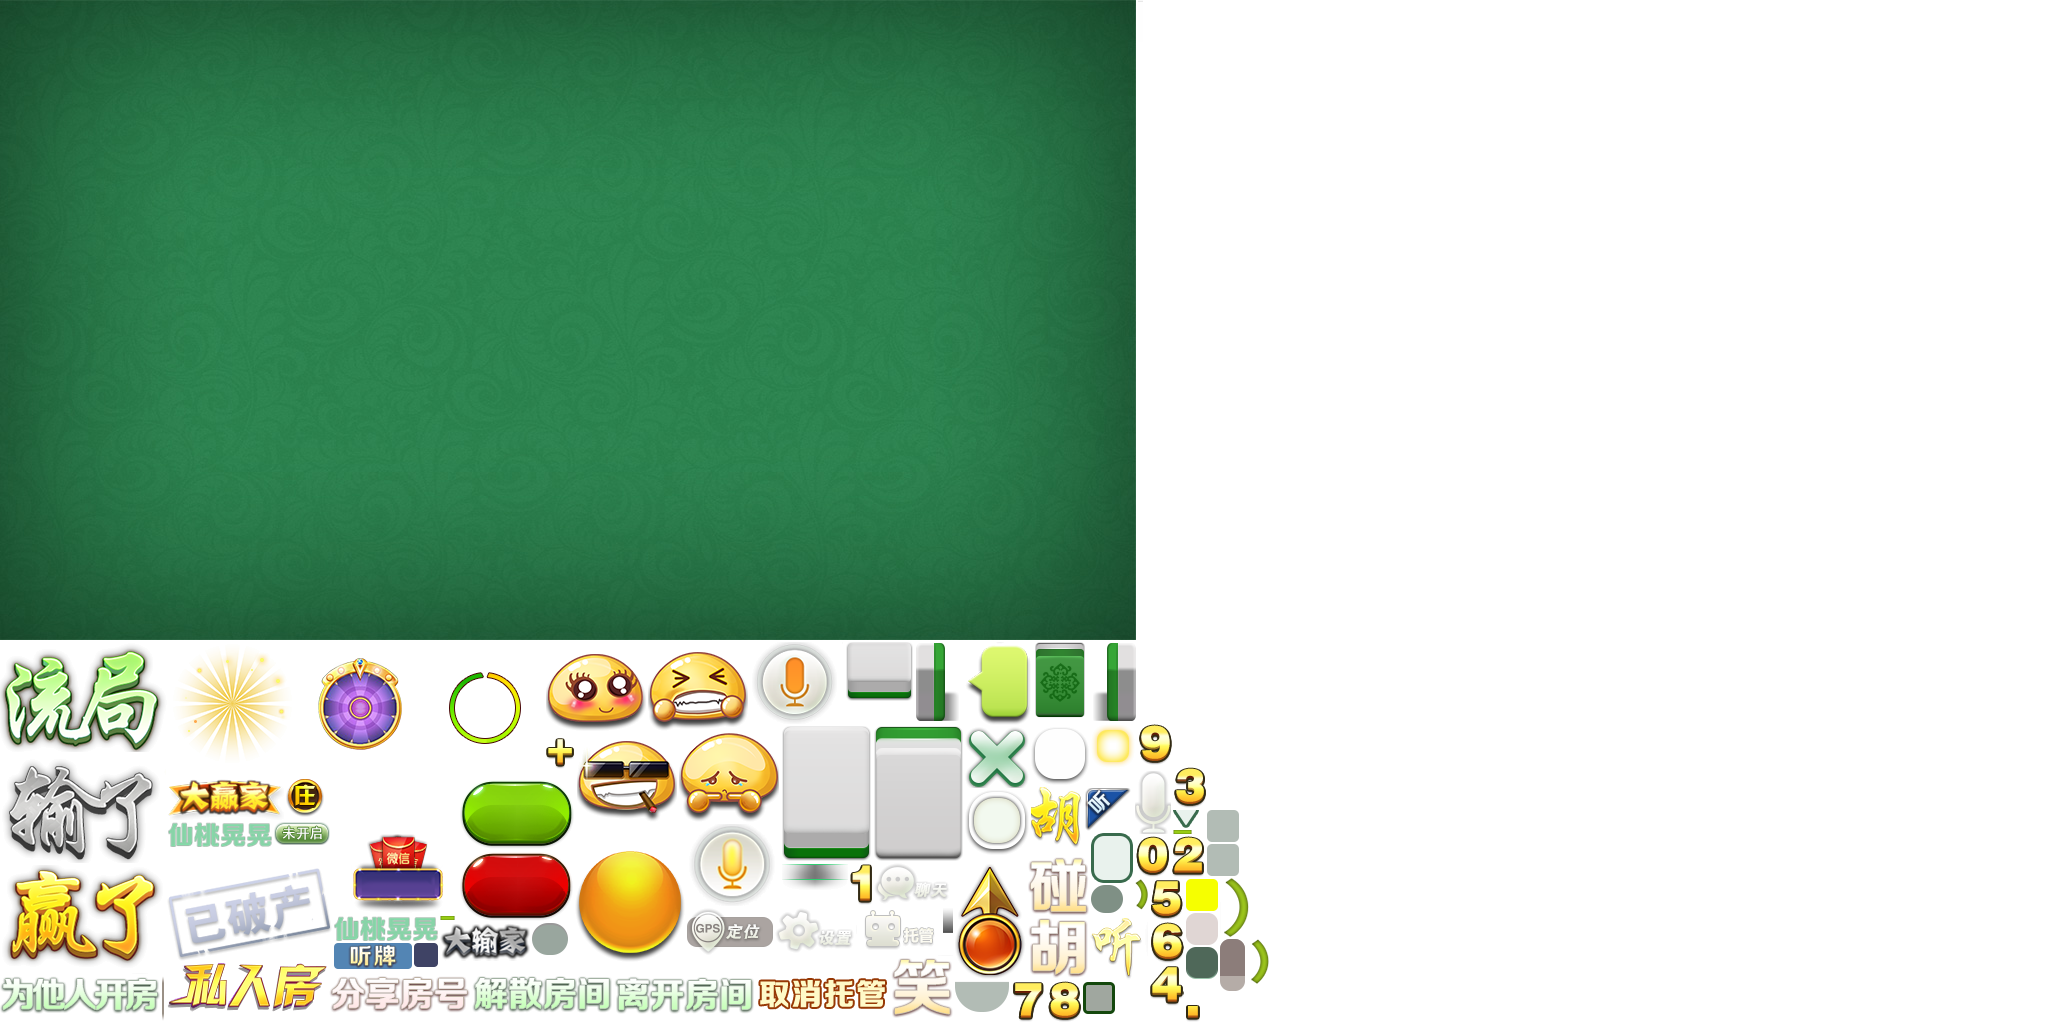
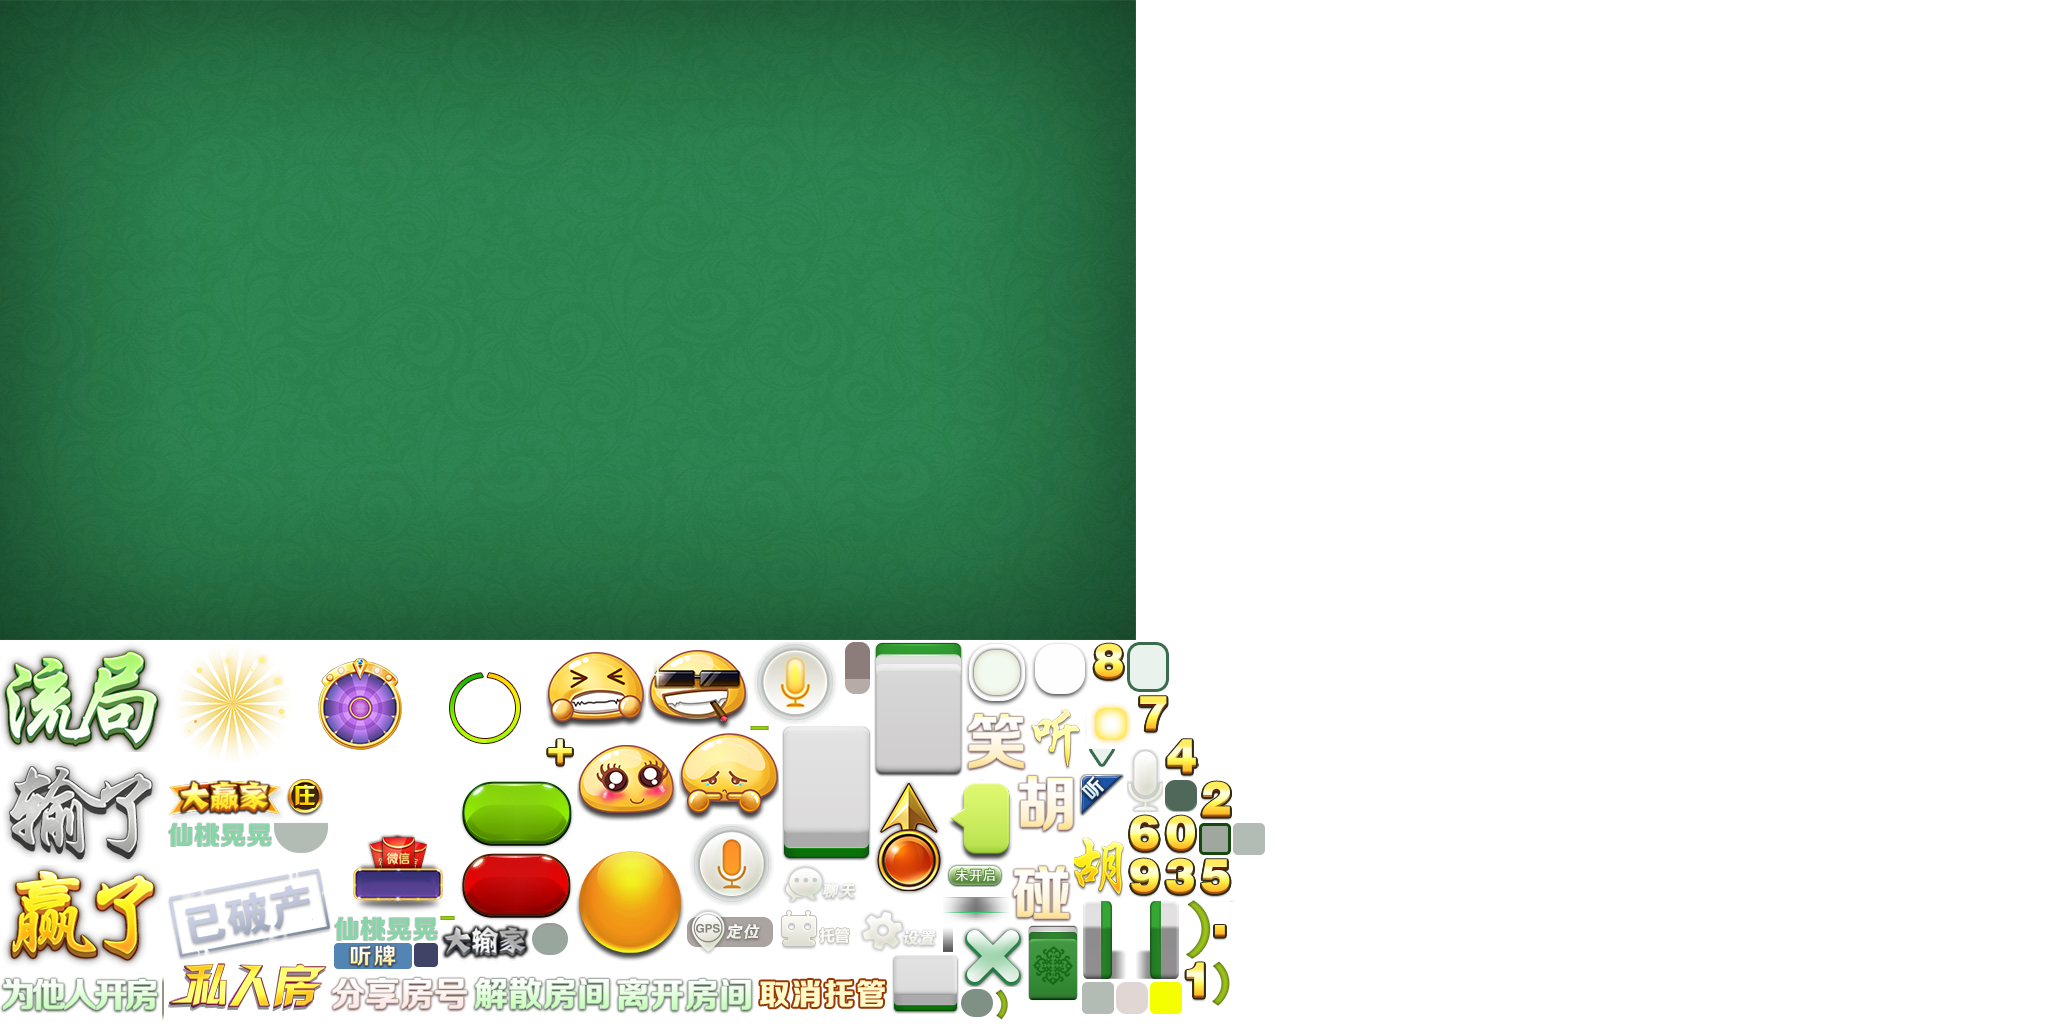
聊天信息层级

Changed region(s): [[0.25, 0.625, 0.625, 1.0], [0.125, 0.7812, 0.1562, 0.8438]]

diff --git a/assets/Script/modules/gamea/PlayerViewA.ts b/assets/Script/modules/gamea/PlayerViewA.ts
@@ -149,7 +149,7 @@ export class PlayerViewA {
         //头像相关
         this.initHeadView();
         //其他UI
-        this.initOtherView();
+        this.initOtherView(viewUnityNode);
         //玩家状态
         this.initPlayerStatus();
 
@@ -964,7 +964,7 @@ export class PlayerViewA {
         this.qipao.visible = false;
     }
 
-    private initOtherView(): void {
+    private initOtherView(viewUnityNode: fgui.GComponent): void {
         // this.aniPos = view.getChild("aniPos")
         this.userInfoPos = this.myView.getChild("userInfoPos");
         //打出的牌放大显示
@@ -980,7 +980,7 @@ export class PlayerViewA {
         this.piaoScoreLose = scoreCom.getChild("lose");
         this.piaoScoreStartPos = scoreCom.getChild("startPos").node.position;
         this.piaoScoreEndPos = scoreCom.getChild("endPos").node.position;
-        this.qipao = this.myView.getChild("chatMsgCom");
+        this.qipao = viewUnityNode.getChild("playerChatMsgCom").asCom.getChild(`player${this.viewChairID}ChatMsgCom`);
         this.qipaoText = this.qipao.asCom.getChild("text");
         this.qipaoEmotion = this.qipao.asCom.getChild("biaoqing").asLoader;
 

diff --git a/assets/Script/modules/gameb/PlayerView.ts b/assets/Script/modules/gameb/PlayerView.ts
@@ -152,7 +152,7 @@ export class PlayerView {
         //头像相关
         this.initHeadView();
         //其他UI
-        this.initOtherView();
+        this.initOtherView(viewUnityNode);
         //玩家状态
         this.initPlayerStatus();
 
@@ -970,7 +970,7 @@ export class PlayerView {
         this.qipao.visible = false;
     }
 
-    private initOtherView(): void {
+    private initOtherView(viewUnityNode: fgui.GComponent): void {
         // this.aniPos = view.getChild("aniPos")
         this.userInfoPos = this.myView.getChild("userInfoPos");
         //打出的牌放大显示
@@ -986,7 +986,7 @@ export class PlayerView {
         this.piaoScoreLose = scoreCom.getChild("lose");
         this.piaoScoreStartPos = scoreCom.getChild("startPos").node.position;
         this.piaoScoreEndPos = scoreCom.getChild("endPos").node.position;
-        this.qipao = this.myView.getChild("chatMsgCom");
+        this.qipao = viewUnityNode.getChild("playerChatMsgCom").asCom.getChild(`player${this.viewChairID}ChatMsgCom`);
         this.qipaoText = this.qipao.asCom.getChild("text");
         this.qipaoEmotion = this.qipao.asCom.getChild("biaoqing").asLoader;
 
